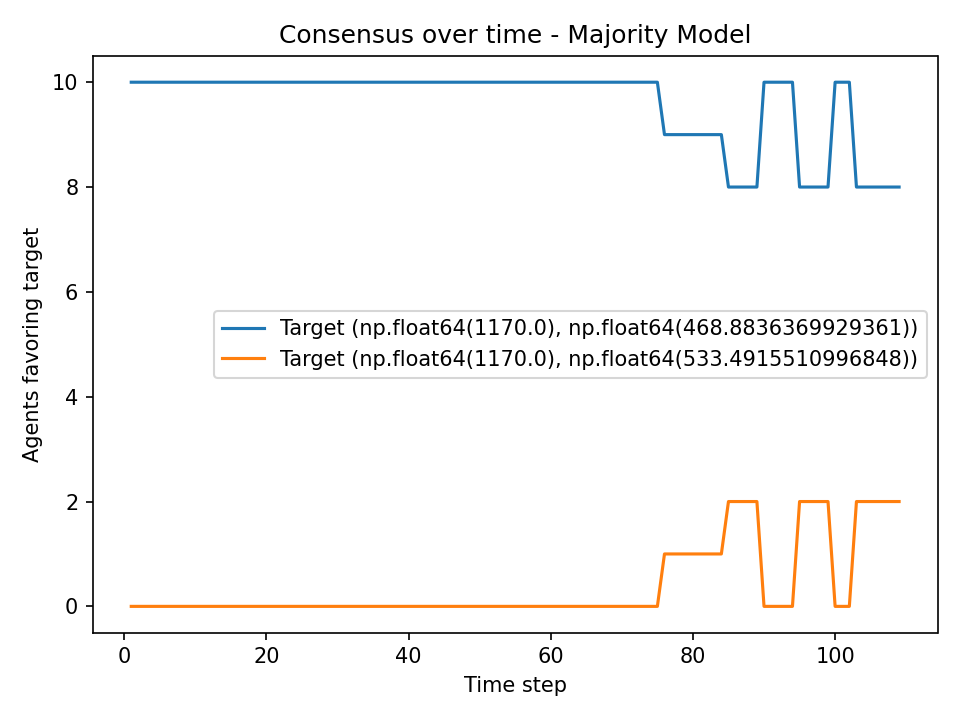
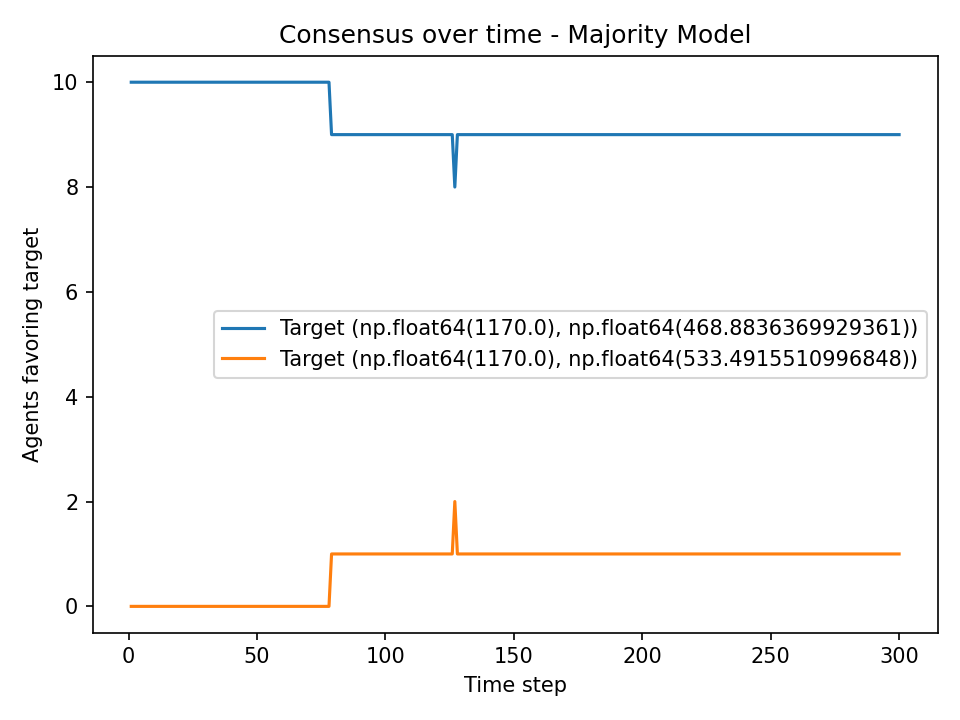
Update agent model parameters and related images
Adjusted SEPERATION_DISTANCE, SEPERATION_STRENGTH, and ATTRACT_STRENGTH values in config.py to refine agent behavior. Updated Consensus_Majority_Model.png and DirMismatch_Majority_Model.png to reflect new model outputs.

diff --git a/Utils/config.py b/Utils/config.py
@@ -36,10 +36,10 @@ def set_params():
         'INTERACTION_RADIUS' : 30,
         'CONSENSUS_PERIOD' : 10,
         'AGENT_SPEED' : 1.0,
-        'SEPERATION_DISTANCE' : 35,
-        'SEPERATION_STRENGTH' : 0.27,
+        'SEPERATION_DISTANCE' : 25,
+        'SEPERATION_STRENGTH' : 0.17,
         'ALIGNMENT_STRENGTH' : 0.08,
-        'ATTRACT_STRENGTH' : 0.0002,
+        'ATTRACT_STRENGTH' : 0.002,
         'REPULSION_RADIUS' : 50,
         'K_INCREMENT' : 0.01
     }
